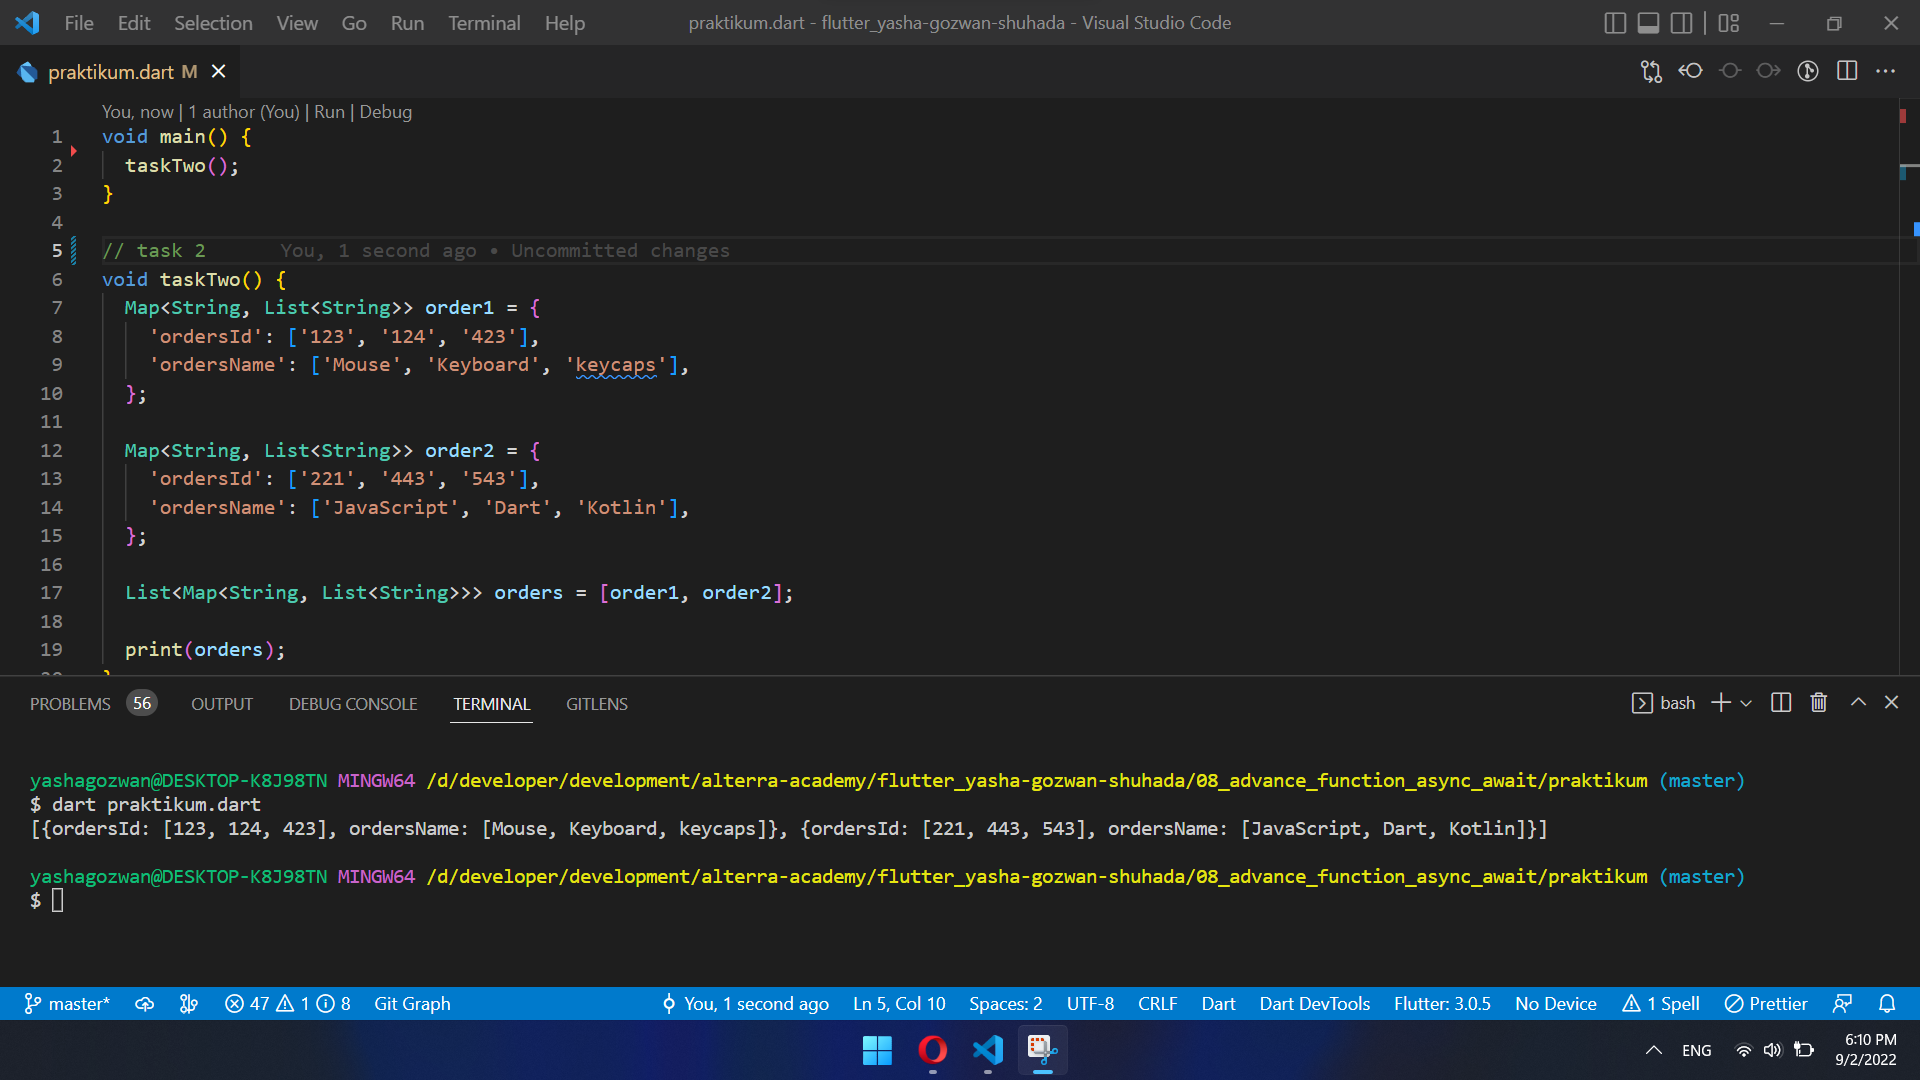
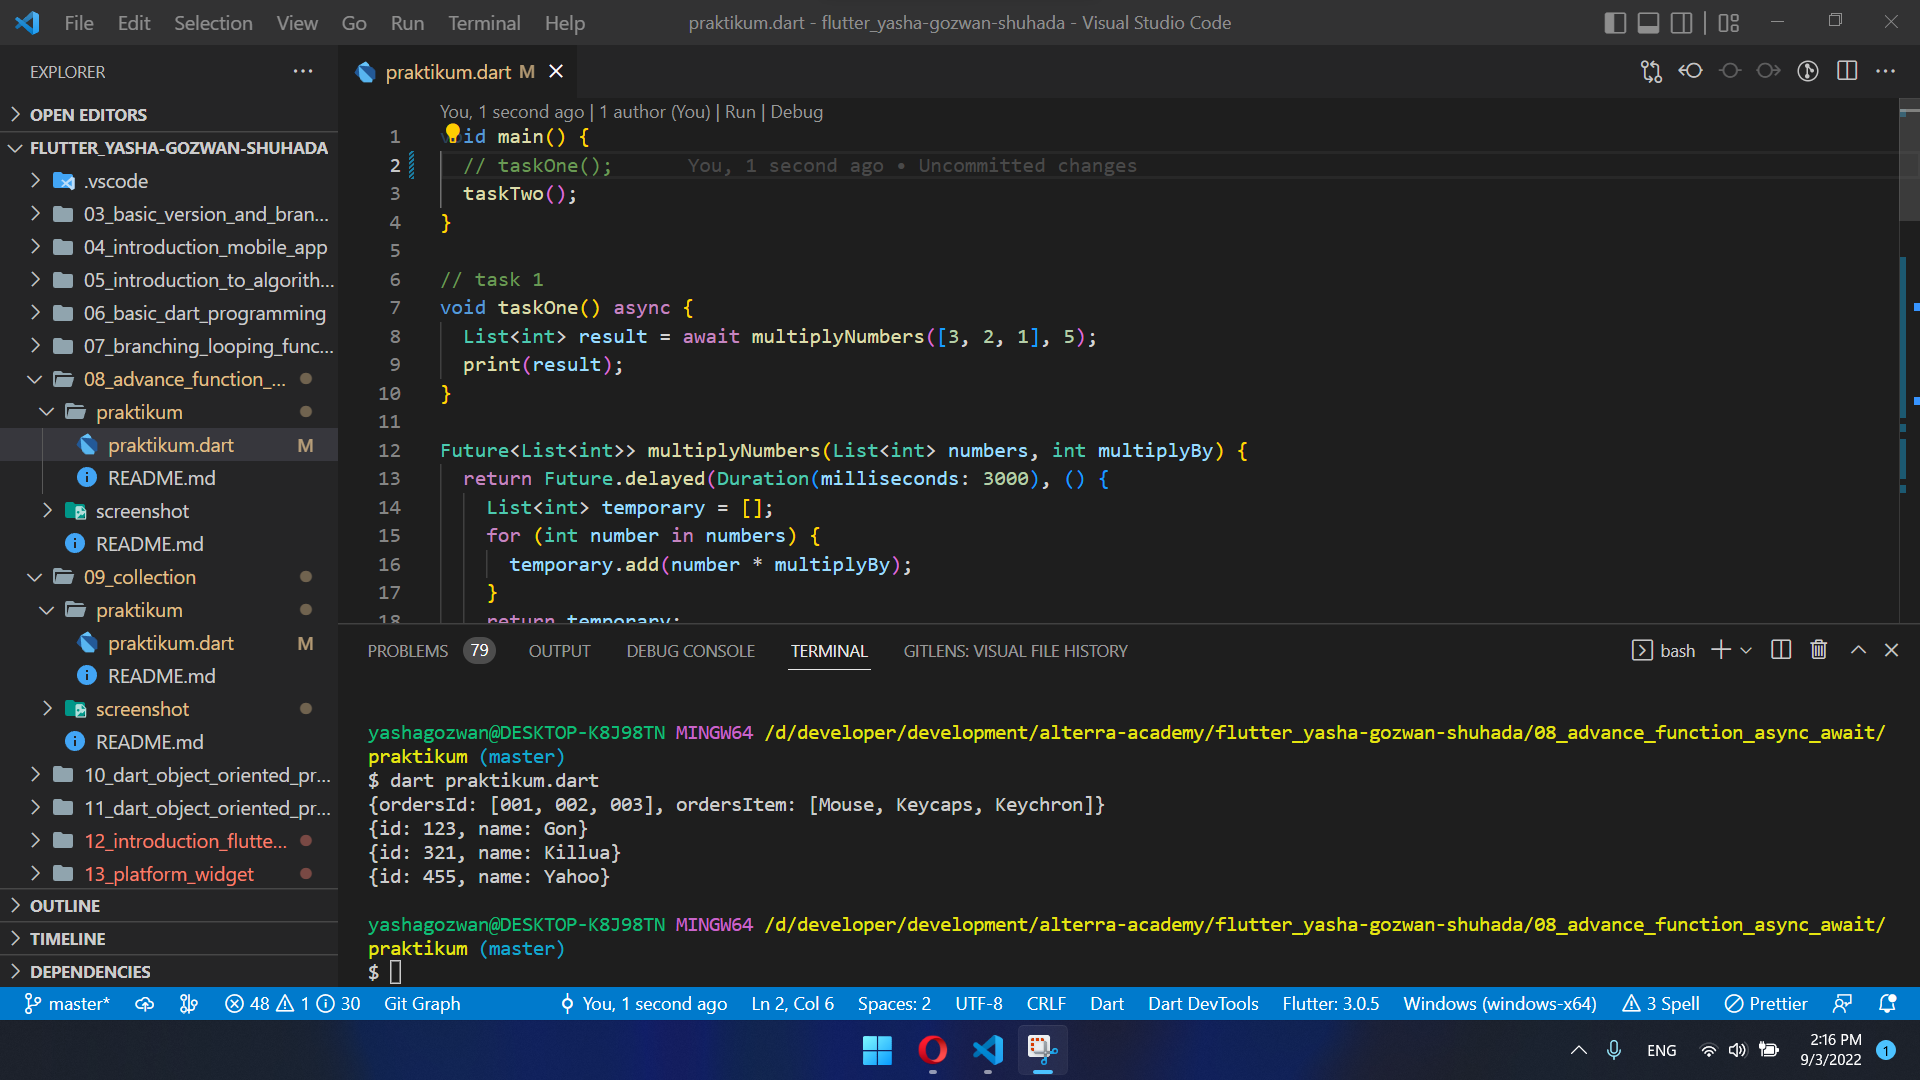
revisi pertemuan 8-9

diff --git a/08_advance_function_async_await/praktikum/praktikum.dart b/08_advance_function_async_await/praktikum/praktikum.dart
@@ -1,5 +1,5 @@
 void main() {
-  taskOne();
+  // taskOne();
   taskTwo();
 }
 
@@ -21,17 +21,39 @@ Future<List<int>> multiplyNumbers(List<int> numbers, int multiplyBy) {
 
 // task 2
 void taskTwo() {
-  Map<String, List<String>> order1 = {
-    'ordersId': ['123', '124', '423'],
-    'ordersName': ['Mouse', 'Keyboard', 'keycaps'],
-  };
+  var orders = [
+    [
+      'ordersId',
+      ['001', '002', '003']
+    ],
+    [
+      'ordersItem',
+      ['Mouse', 'Keycaps', 'Keychron']
+    ],
+  ];
 
-  Map<String, List<String>> order2 = {
-    'ordersId': ['221', '443', '543'],
-    'ordersName': ['JavaScript', 'Dart', 'Kotlin'],
-  };
+  var ordersMap = {};
 
-  List<Map<String, List<String>>> orders = [order1, order2];
+  for (int i = 0; i < orders.length; i++) {
+    ordersMap.addAll({orders[i][0]: orders[i][1]});
+  }
 
-  print(orders);
+  print(ordersMap);
+
+  var friends = [
+    ['123', 'Gon'],
+    ['321', 'Killua'],
+    ['455', 'Yahoo'],
+  ];
+
+  var person = {};
+
+  int i = 1;
+  for (var friend in friends) {
+    person.addEntries({
+      "person${i++}": {"id": friend[0], "name": friend[1]}
+    }.entries);
+  }
+
+  person.forEach(((_, value) => print(value)));
 }

diff --git a/09_collection/praktikum/praktikum.dart b/09_collection/praktikum/praktikum.dart
@@ -21,17 +21,40 @@ Future<List<int>> multiplyNumbers(List<int> numbers, int multiplyBy) {
 
 // task 2
 void taskTwo() {
-  Map<String, List<String>> order1 = {
-    'ordersId': ['123', '124', '423'],
-    'ordersName': ['Mouse', 'Keyboard', 'keycaps'],
-  };
+  var orders = [
+    [
+      'ordersId',
+      ['001', '002', '003']
+    ],
+    [
+      'ordersItem',
+      ['Mouse', 'Keycaps', 'Keychron']
+    ],
+  ];
 
-  Map<String, List<String>> order2 = {
-    'ordersId': ['221', '443', '543'],
-    'ordersName': ['JavaScript', 'Dart', 'Kotlin'],
-  };
+  var ordersMap = {};
 
-  List<Map<String, List<String>>> orders = [order1, order2];
+  for (int i = 0; i < orders.length; i++) {
+    ordersMap.addAll({orders[i][0]: orders[i][1]});
+  }
 
-  print(orders);
+  print(ordersMap);
+
+  var friends = [
+    ['123', 'Gon'],
+    ['321', 'Killua'],
+    ['455', 'Yahoo'],
+  ];
+
+  var person = {};
+
+  int i = 1;
+  for (var friend in friends) {
+    person.addEntries({
+      "person${i++}": {"id": friend[0], "name": friend[1]}
+    }.entries);
+  }
+
+  person.forEach(((_, value) => print(value)));
+  print(person);
 }
